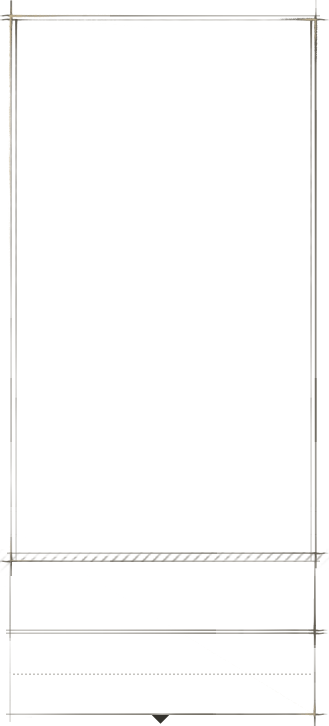
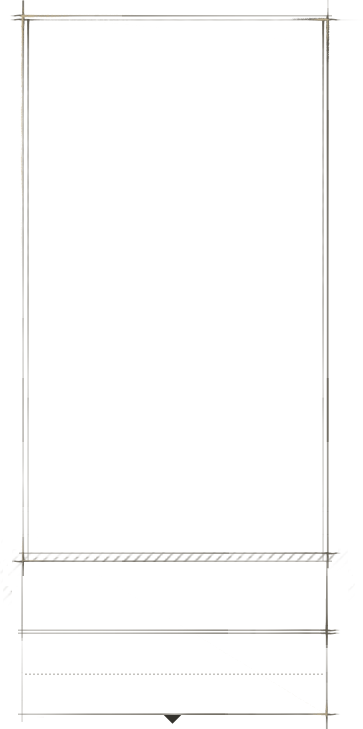
added hover and active effects

Changed region(s): [[0.0, 0.0, 1.0, 1.0]]

diff --git a/main.js b/main.js
@@ -8,21 +8,38 @@ displayCharacters(characters);
 
 function displayCharacters(arr){
   for(character of characters){
-    let characterContainer = document.createElement("div");
+    let characterContainer = document.createElement('div');
     characterContainer.classList.add('character', `${character.name}`);
-    characterContainer.addEventListener("click", selectCharacter);
+    characterContainer.addEventListener('click', selectCharacter);
     characterContainer.style.backgroundImage = `url(${character.image})`;
 
-    let frame = document.createElement("img");
+    let frame = document.createElement('img');
     frame.src = './assets/class-select-frame.png';
     frame.classList.add('frame');
     characterContainer.appendChild(frame);
 
+    let activeFrame = document.createElement('img');
+    activeFrame.src = './assets/class-select-frame-active.png';
+    activeFrame.classList.add('active-frame');
+    characterContainer.appendChild(activeFrame);
 
-    document.getElementById("character-wrapper").appendChild(characterContainer);
+    document.getElementById('character-wrapper').appendChild(characterContainer);
   }
 }
 
 function selectCharacter(){
+  console.log(this.children);
+  this.children[0].classList.add('hide');
+  this.children[1].classList.add('show')
+  this.removeEventListener('click', selectCharacter);
+  this.style.opacity = 1;
+  this.querySelectorAll('.parent .frame')
 
+  for(let i = 0; i < 5; i++){
+    let frameShadow = document.createElement('img');
+    frameShadow.src = './assets/class-select-frame-active-extras.png';
+    frameShadow.classList.add('frame-shadow');
+    this.appendChild(frameShadow);
+  }
+  
 }

diff --git a/style.css b/style.css
@@ -17,24 +17,40 @@ body {
 h1 {
   color: silver;
   text-align: center;
+  margin: 4% 0;
 }
 
 #character-wrapper {
   width: 100vw;
-  height: 100vh;
   display: flex;
   flex-direction: row;
   flex-wrap: nowrap;
   justify-content: space-around;
-  align-items: center;
 }
 
 .character {
   width: 18vw;
-  background-position-x: center; 
+  background-position-x: 45%; 
   background-position-y: 10%; 
   background-repeat: no-repeat;
-  background-size: 90% auto;
+  background-size: 82% auto;
+  position: relative;
+}
+
+.adventurer,
+.expatriate,
+.explorer,
+.soldier,
+.stowaway {
+  opacity: 0.7;
+}
+
+.adventurer:hover,
+.expatriate:hover,
+.explorer:hover,
+.soldier:hover,
+.stowaway:hover {
+  opacity: 1;
 }
 
 .soldier {
@@ -43,5 +59,35 @@ h1 {
 
 .frame {
   width: 100%;
+  position: absolute;
+  z-index: 1;
 }
 
+.frame:hover {
+  z-index: 0;
+}
+
+.active-frame {
+  width: 100%;
+  position: absolute;
+  z-index: 0;
+}
+
+.active-frame:hover {
+  z-index: 1;
+}
+
+.frame-shadow {
+  position: absolute;
+  width: 106%;
+  top: -31px;
+  left: -13px;
+}
+
+.hide {
+  z-index: 0;
+}
+
+.show {
+  z-index: 1;
+}

diff --git a/index.html b/index.html
@@ -7,6 +7,7 @@
   <title>Scripting Test</title>
 </head>
 <body>
+  <h1>Player 1 - Choose a character:</h1>
 
   <div id='character-wrapper'></div>
 
